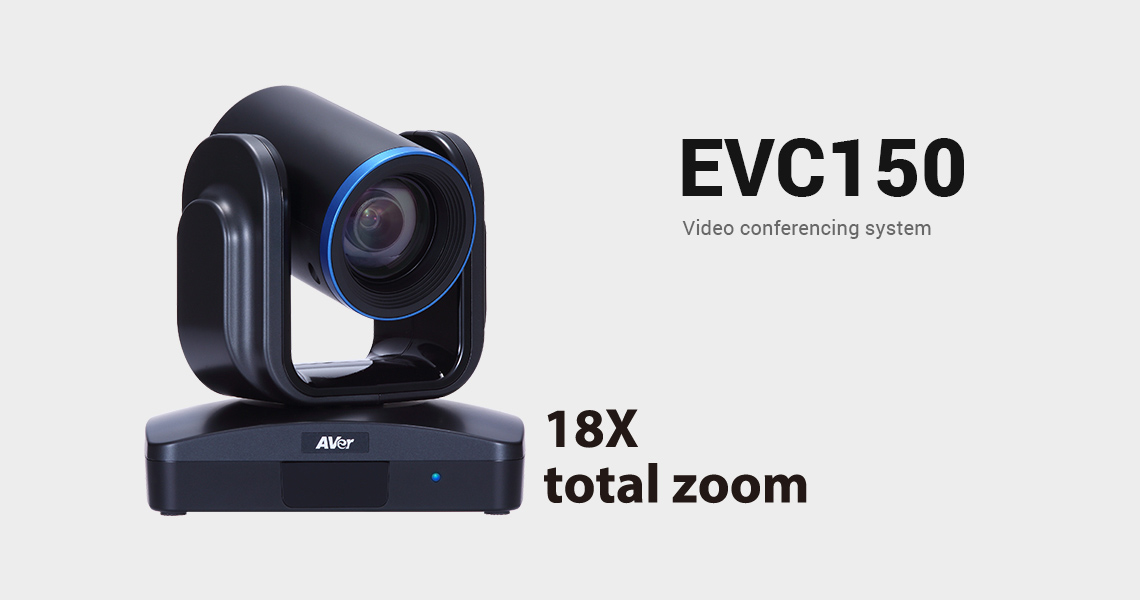
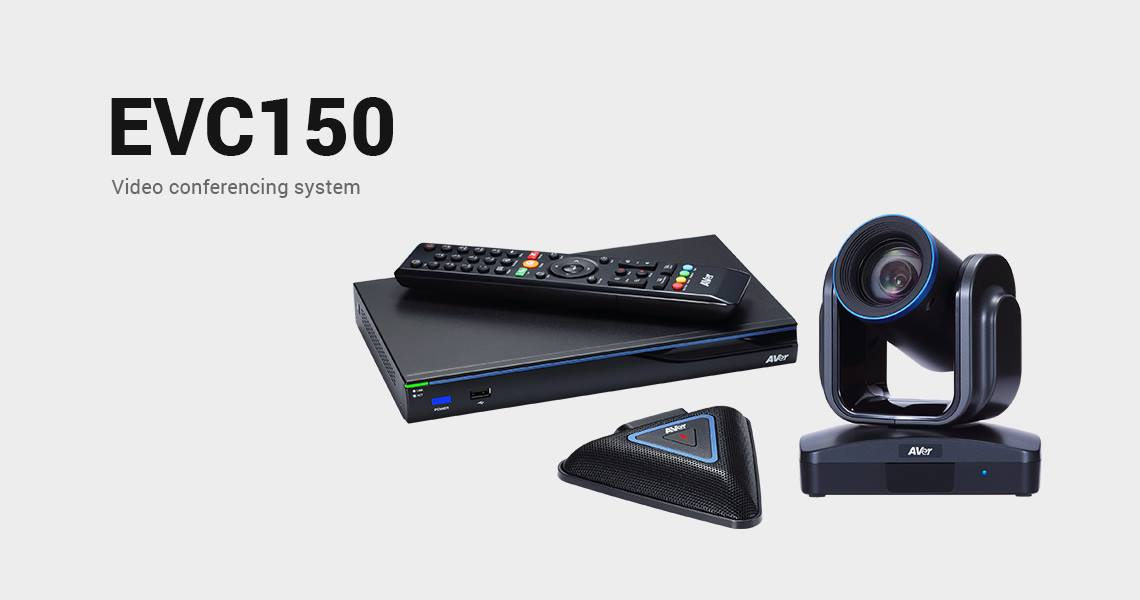
add GTM, change image

diff --git a/index.html b/index.html
@@ -68,9 +68,31 @@
             writeCookie("utm_content", utm_content, 30);
         }
     </script>
+    <!-- Google Tag Manager -->
+    <script>
+        (function (w, d, s, l, i) {
+            w[l] = w[l] || [];
+            w[l].push({
+                'gtm.start': new Date().getTime(),
+                event: 'gtm.js'
+            });
+            var f = d.getElementsByTagName(s)[0],
+                j = d.createElement(s),
+                dl = l != 'dataLayer' ? '&l=' + l : '';
+            j.async = true;
+            j.src =
+                'https://www.googletagmanager.com/gtm.js?id=' + i + dl;
+            f.parentNode.insertBefore(j, f);
+        })(window, document, 'script', 'dataLayer', 'GTM-KNS47WN');
+    </script>
+    <!-- End Google Tag Manager -->
 </head>
 
 <body data-spy="scroll" data-target=".navbar" data-offset="80">
+    <!-- Google Tag Manager (noscript) -->
+    <noscript><iframe src="https://www.googletagmanager.com/ns.html?id=GTM-KNS47WN" height="0" width="0"
+            style="display:none;visibility:hidden"></iframe></noscript>
+    <!-- End Google Tag Manager (noscript) -->
     <div class="btn_top">
         <figure>
             <img src="./assets/images/btn_top.png" alt="" class="img-fluid">

diff --git a/thanks.html b/thanks.html
@@ -64,9 +64,31 @@
             writeCookie("utm_content", utm_content, 30);
         }
     </script>
+    <!-- Google Tag Manager -->
+    <script>
+        (function (w, d, s, l, i) {
+            w[l] = w[l] || [];
+            w[l].push({
+                'gtm.start': new Date().getTime(),
+                event: 'gtm.js'
+            });
+            var f = d.getElementsByTagName(s)[0],
+                j = d.createElement(s),
+                dl = l != 'dataLayer' ? '&l=' + l : '';
+            j.async = true;
+            j.src =
+                'https://www.googletagmanager.com/gtm.js?id=' + i + dl;
+            f.parentNode.insertBefore(j, f);
+        })(window, document, 'script', 'dataLayer', 'GTM-KNS47WN');
+    </script>
+    <!-- End Google Tag Manager -->
 </head>
 
 <body>
+    <!-- Google Tag Manager (noscript) -->
+    <noscript><iframe src="https://www.googletagmanager.com/ns.html?id=GTM-KNS47WN" height="0" width="0"
+            style="display:none;visibility:hidden"></iframe></noscript>
+    <!-- End Google Tag Manager (noscript) -->
     <nav class="navbar navbar-expand-lg navbar-light fixed-top">
         <div class="container">
             <a class="navbar-brand" href="index.html">

diff --git a/api/connection.php b/api/connection.php
@@ -8,9 +8,9 @@ $database = "wincos";
 function DBConfig()
 {
     $servername = "localhost";
-    $username = "admin";
-    $password = "123456";
-    $database = "aver";
+    $username = "vinst397_averlp";
+    $password = "9Z()o4Mg!zbO";
+    $database = "vinst397_averlp";
     return array(
         'servername' => $servername,
         'username' => $username,
@@ -91,12 +91,14 @@ $conn->query($sql);
 }
  */
 
-function insertregister($fullname,$phone,$email,$company,$utm_source,$utm_medium,$utm_campaign,$utm_term,$utm_content,$date_create)
+function insertregister($fullname, $phone, $email, $company, $utm_source, $utm_medium, $utm_campaign, $utm_term, $utm_content, $date_create)
 {
     try {
         $DB = dbConnectPDO();
-        $result = $DB->query("INSERT INTO registers(name,phone,email,company,utm_source,utm_medium,utm_campaign,utm_term,utm_content,date_create) VALUES(?,?,?,?,?,?,?,?,?,?)",
-            array($fullname,$phone,$email,$company,$utm_source,$utm_medium,$utm_campaign,$utm_term,$utm_content,$date_create));
+        $result = $DB->query(
+            "INSERT INTO registers(name,phone,email,company,utm_source,utm_medium,utm_campaign,utm_term,utm_content,date_create) VALUES(?,?,?,?,?,?,?,?,?,?)",
+            array($fullname, $phone, $email, $company, $utm_source, $utm_medium, $utm_campaign, $utm_term, $utm_content, $date_create)
+        );
         $DB->CloseConnection;
         if ($result) {
             return true;
